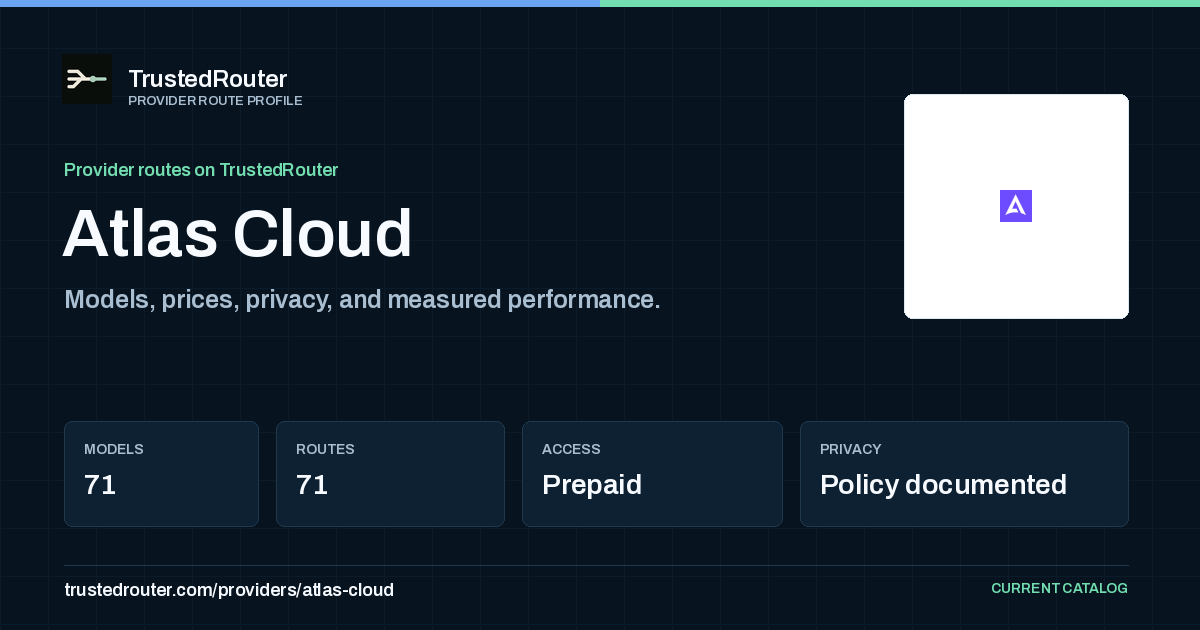
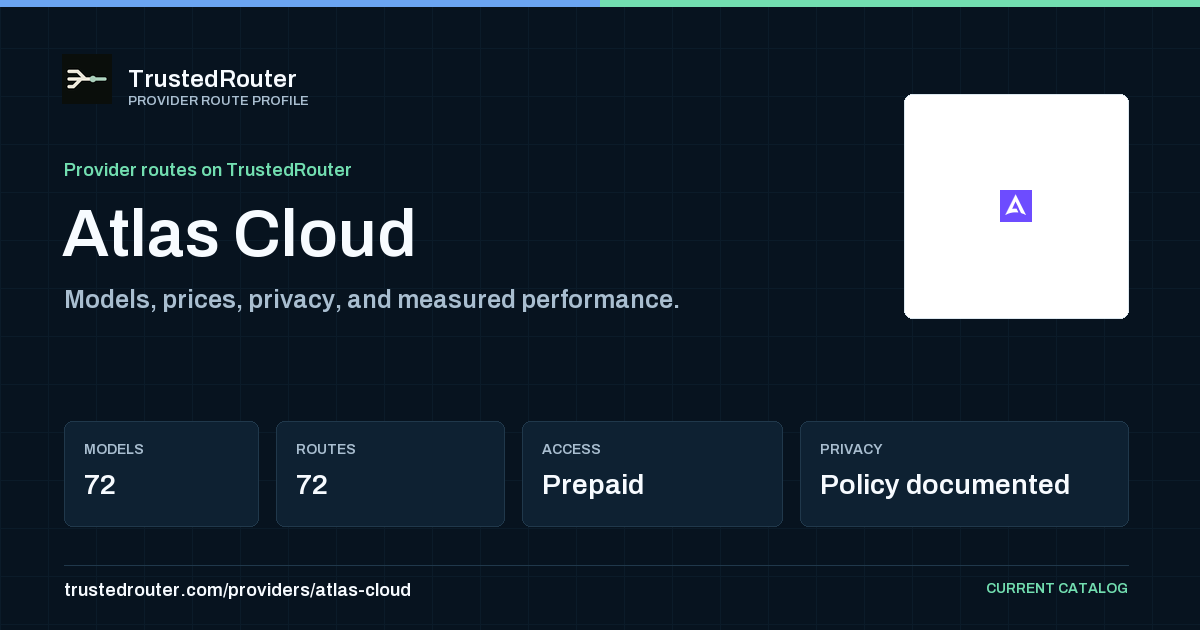
Route H3 video through Atlas Cloud

diff --git a/tests/test_video_generation_control_plane.py b/tests/test_video_generation_control_plane.py
@@ -37,19 +37,19 @@ VIDEO_MODELS = {
     "x-ai/grok-imagine-video",
 }
 
-DIRECT_VIDEO_PROVIDERS = {
-    "lightricks/ltx-2.3": "ltx",
-    "lightricks/ltx-2.3-fast": "ltx",
-    "minimax/hailuo-3": "minimax",
-    "google/veo-3.1": "google-ai-studio",
-    "google/veo-3.1-fast": "google-ai-studio",
-    "alibaba/wan-2.7": "alibaba",
-    "x-ai/grok-imagine-video": "grok",
-    "runway/gen-4.5": "runway",
-    "openai/sora-2": "openai",
-    "openai/sora-2-pro": "openai",
-    "kling/v3-pro": "kling",
-    "kling/o3-pro": "kling",
+NATIVE_VIDEO_PROVIDERS = {
+    "lightricks/ltx-2.3": ("ltx",),
+    "lightricks/ltx-2.3-fast": ("ltx",),
+    "minimax/hailuo-3": ("minimax", "atlas-cloud"),
+    "google/veo-3.1": ("google-ai-studio",),
+    "google/veo-3.1-fast": ("google-ai-studio",),
+    "alibaba/wan-2.7": ("alibaba",),
+    "x-ai/grok-imagine-video": ("grok",),
+    "runway/gen-4.5": ("runway",),
+    "openai/sora-2": ("openai",),
+    "openai/sora-2-pro": ("openai",),
+    "kling/v3-pro": ("kling",),
+    "kling/o3-pro": ("kling",),
 }
 
 
@@ -87,14 +87,20 @@ def test_launch_video_catalog_is_explicit_and_credits_only() -> None:
         assert model.prepaid_available is True
         assert model.byok_available is False
         endpoints = endpoints_for_model(model_id)
-        expected = [DIRECT_VIDEO_PROVIDERS.get(model_id, "venice")]
-        if model_id in DIRECT_VIDEO_PROVIDERS and model_id != "x-ai/grok-imagine-video":
+        expected = list(NATIVE_VIDEO_PROVIDERS.get(model_id, ("venice",)))
+        if model_id in NATIVE_VIDEO_PROVIDERS and model_id != "x-ai/grok-imagine-video":
             expected.append("venice")
         assert [endpoint.provider for endpoint in endpoints] == expected
         assert all(endpoint.usage_type == "Credits" for endpoint in endpoints)
         assert all(endpoint.upstream_id for endpoint in endpoints)
 
     assert MODELS["minimax/hailuo-3"].name == "MiniMax Hailuo 3 (H3)"
+    assert MODELS["minimax/hailuo-3"].input_modalities == (
+        "text",
+        "image",
+        "audio",
+        "video",
+    )
 
 
 def test_sora_video_authorizes_direct_openai_before_standard_fallback() -> None:
@@ -119,6 +125,16 @@ def test_video_router_rejects_text_models_and_honors_provider_filters() -> None:
     )
     assert [(model.id, endpoint.provider) for model, endpoint in candidates] == [
         ("minimax/hailuo-3", "venice")
+    ]
+    atlas_candidates = video_route_endpoint_candidates(
+        {
+            "model": "minimax/hailuo-3",
+            "provider": {"only": ["atlas-cloud"]},
+        },
+        Settings(environment="test"),
+    )
+    assert [(model.id, endpoint.provider) for model, endpoint in atlas_candidates] == [
+        ("minimax/hailuo-3", "atlas-cloud")
     ]
 
 
@@ -413,9 +429,7 @@ def test_video_job_can_persist_an_authorized_fallback_route_and_exact_charge(
     )
     assert auth["provider"] == "minimax"
     venice = next(
-        candidate
-        for candidate in auth["route_candidates"]
-        if candidate["provider"] == "venice"
+        candidate for candidate in auth["route_candidates"] if candidate["provider"] == "venice"
     )
     prepare = client.post(
         "/v1/internal/gateway/video/jobs/prepare",

diff --git a/src/trusted_router/catalog_registry.py b/src/trusted_router/catalog_registry.py
@@ -863,7 +863,7 @@ _VIDEO_MODELS: dict[str, Model] = {
         context_length=7_000,
         supports_chat=False,
         supports_video=True,
-        input_modalities=("text", "image", "audio"),
+        input_modalities=("text", "image", "audio", "video"),
         output_modalities=("video",),
         prepaid_available=True,
         byok_available=False,
@@ -1025,29 +1025,33 @@ _VIDEO_UPSTREAM_IDS = {
     "shengshu/vidu-q3": "vidu-q3-text-to-video",
     "pixverse/c1": "pixverse-c1-text-to-video",
 }
-_DIRECT_VIDEO_UPSTREAM_IDS = {
-    "lightricks/ltx-2.3": ("ltx", "ltx-2-3-pro"),
-    "lightricks/ltx-2.3-fast": ("ltx", "ltx-2-3-fast"),
-    "minimax/hailuo-3": ("minimax", "MiniMax-H3"),
-    "google/veo-3.1": ("google-ai-studio", "veo-3.1-generate-preview"),
-    "google/veo-3.1-fast": ("google-ai-studio", "veo-3.1-fast-generate-preview"),
-    "alibaba/wan-2.7": ("alibaba", "wan2.7-t2v"),
-    "x-ai/grok-imagine-video": ("grok", "grok-imagine-video"),
-    "runway/gen-4.5": ("runway", "gen4.5"),
-    "openai/sora-2": ("openai", "sora-2"),
-    "openai/sora-2-pro": ("openai", "sora-2-pro"),
-    "kling/v3-pro": ("kling", "kling-3.0"),
-    "kling/o3-pro": ("kling", "kling-3.0-omni"),
+_NATIVE_VIDEO_UPSTREAM_IDS = {
+    "lightricks/ltx-2.3": (("ltx", "ltx-2-3-pro"),),
+    "lightricks/ltx-2.3-fast": (("ltx", "ltx-2-3-fast"),),
+    "minimax/hailuo-3": (
+        ("minimax", "MiniMax-H3"),
+        ("atlas-cloud", "minimax/h3/text-to-video"),
+    ),
+    "google/veo-3.1": (("google-ai-studio", "veo-3.1-generate-preview"),),
+    "google/veo-3.1-fast": (("google-ai-studio", "veo-3.1-fast-generate-preview"),),
+    "alibaba/wan-2.7": (("alibaba", "wan2.7-t2v"),),
+    "x-ai/grok-imagine-video": (("grok", "grok-imagine-video"),),
+    "runway/gen-4.5": (("runway", "gen4.5"),),
+    "openai/sora-2": (("openai", "sora-2"),),
+    "openai/sora-2-pro": (("openai", "sora-2-pro"),),
+    "kling/v3-pro": (("kling", "kling-3.0"),),
+    "kling/o3-pro": (("kling", "kling-3.0-omni"),),
 }
-for _model_id, (_provider_slug, _upstream_id) in _DIRECT_VIDEO_UPSTREAM_IDS.items():
-    _endpoint_id = f"{_model_id}@{_provider_slug}/prepaid"
-    MODEL_ENDPOINTS[_endpoint_id] = ModelEndpoint(
-        id=_endpoint_id,
-        model_id=_model_id,
-        provider=_provider_slug,
-        usage_type="Credits",
-        upstream_id=_upstream_id,
-    )
+for _model_id, _native_routes in _NATIVE_VIDEO_UPSTREAM_IDS.items():
+    for _provider_slug, _upstream_id in _native_routes:
+        _endpoint_id = f"{_model_id}@{_provider_slug}/prepaid"
+        MODEL_ENDPOINTS[_endpoint_id] = ModelEndpoint(
+            id=_endpoint_id,
+            model_id=_model_id,
+            provider=_provider_slug,
+            usage_type="Credits",
+            upstream_id=_upstream_id,
+        )
 for _model_id, _upstream_id in _VIDEO_UPSTREAM_IDS.items():
     _endpoint_id = f"{_model_id}@venice/prepaid"
     MODEL_ENDPOINTS[_endpoint_id] = ModelEndpoint(
